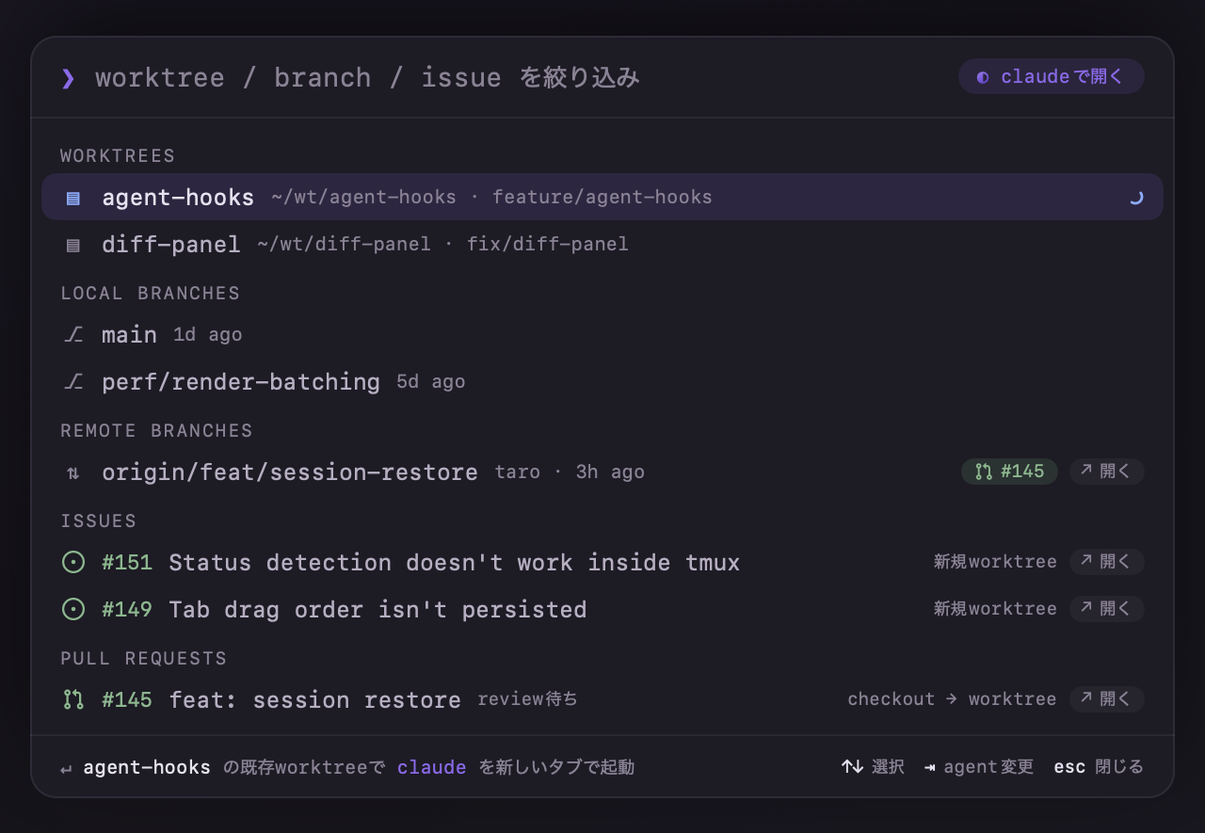
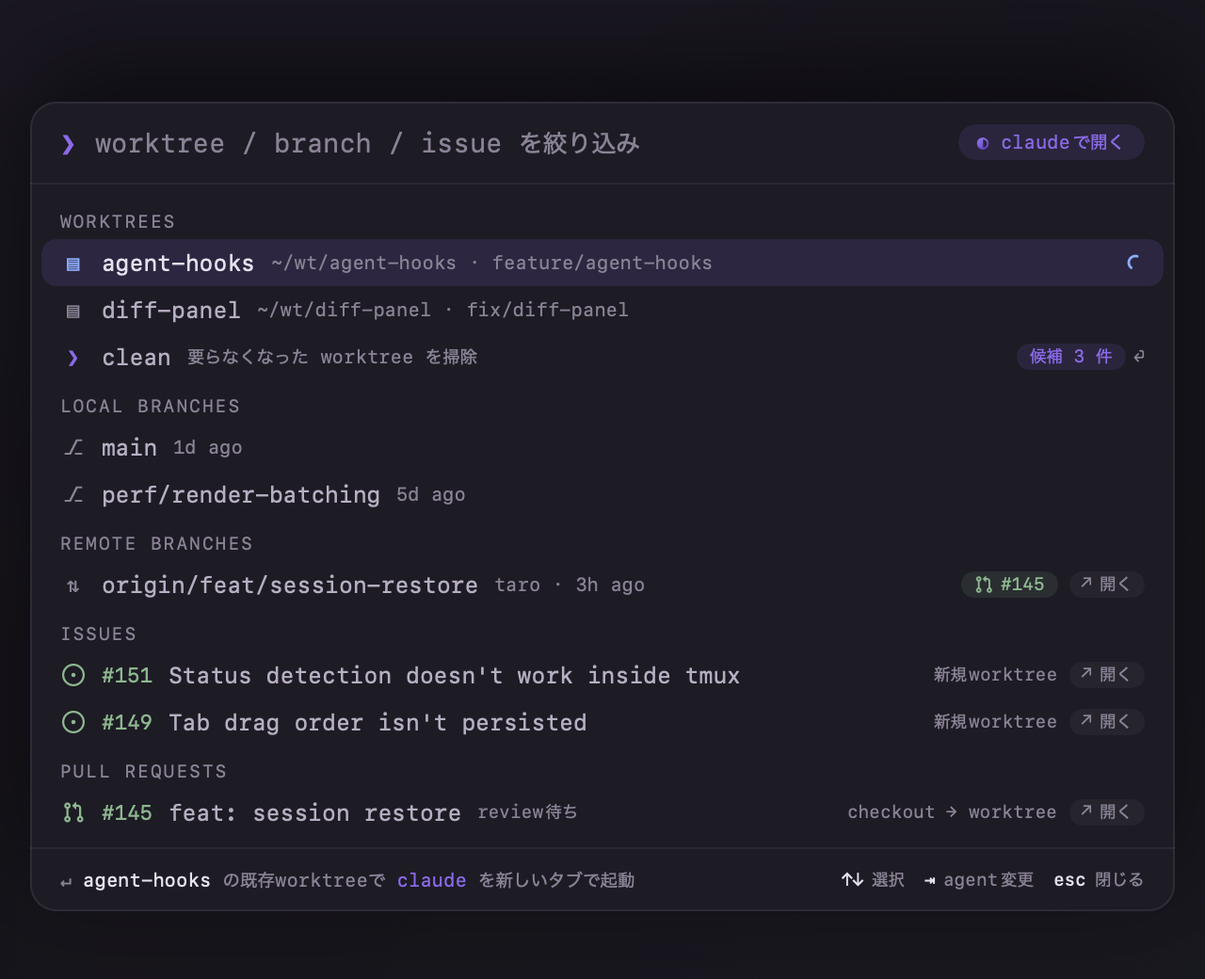
docs: READMEを現行機能・導入手順に合わせて刷新 (#176)
* docs: READMEを現行機能と導入手順に合わせて刷新

* chore: Orbe MCPの既定登録を外し接続案内を更新

diff --git a/README.md b/README.md
@@ -2,122 +2,173 @@
 
 <picture>
   <source media="(prefers-color-scheme: dark)" srcset="docs/assets/logo-dark.svg">
-  <img src="docs/assets/logo-light.svg" width="96" alt="Orbe">
+  <img src="docs/assets/logo-light.svg" width="80" alt="Orbe">
 </picture>
 
 # Orbe
 
-**AI コーディングエージェントのためのネイティブ macOS ターミナル**
+**AI コーディングエージェントとの並列開発を支える、macOS ネイティブターミナル**
 
-[![CI](https://github.com/nakashima-takeo/orbe/actions/workflows/ci.yml/badge.svg)](https://github.com/nakashima-takeo/orbe/actions/workflows/ci.yml)
-[![Release](https://img.shields.io/github/v/release/nakashima-takeo/orbe)](https://github.com/nakashima-takeo/orbe/releases/latest)
-[![macOS 14+](https://img.shields.io/badge/macOS-14.0%2B-000000?logo=apple)](#インストール)
-[![License: GPL-3.0](https://img.shields.io/badge/license-GPL--3.0-blue)](LICENSE)
+[![CI](https://github.com/nakashima-takeo/orbe/actions/workflows/ci.yml/badge.svg)](https://github.com/nakashima-takeo/orbe/actions/workflows/ci.yml) [![Release](https://img.shields.io/github/v/release/nakashima-takeo/orbe)](https://github.com/nakashima-takeo/orbe/releases/latest) [![macOS 14+](https://img.shields.io/badge/macOS-14.0%2B-000000?logo=apple)](#インストール) [![License: GPL-3.0](https://img.shields.io/badge/license-GPL--3.0-blue)](LICENSE)
 
-[インストール](#インストール) · [機能](#機能) · [ショートカット](#キーボードショートカット) · [ソースからビルド](#ソースからビルド)
+[インストール](#インストール) · [機能](#機能) · [ショートカット](#キーボードショートカット) · [CLI・MCP](#cli-と-mcp) · [開発ドキュメント](docs/README.md)
 
 </div>
 
----
+Orbe は、作業場所の準備、エージェントの起動、入力待ち・完了の確認をまとめて扱うターミナルです。Issue / PR / ブランチを選ぶと、Git worktree を用意し、エージェントを起動したタブを開けます。複数のプロジェクトを並行して進めるときも、各エージェントの状態を一覧できます。
 
-AI エージェントとの開発は、コードを書く時間より「段取り」に手を取られる——Issue を確認し、worktree を切り、`cd` して、エージェントを起動し、タブを行き来して入力待ちのエージェントを探す。
+ターミナルエンジンは [Ghostty](https://ghostty.org) の **libghostty**。Metal で描画し、アプリの UI は SwiftUI / AppKit で実装しています。
 
-**Orbe はその段取りを丸ごとターミナルに畳み込む。**
-
-<div align="center">
-  <img src="docs/assets/hero-dispatch.png" width="760" alt="Dispatch パレット。worktree・ローカル/リモートブランチ・GitHub Issue・PR が 1 枚に並び、選んで Enter するとエージェントが起動した状態のタブが開く">
-</div>
-
-- **ワンアクションで開発が始まる** — Issue / PR / ブランチを選んで Enter。worktree の作成からエージェント起動済みタブが開くまでが 1 アクション。
-- **並列でも迷子にならない** — 全タブ・全ワークスペースのエージェント状態（作業中 / 入力待ち / 完了）を常時表示。「どれが待ってるんだっけ」が無くなる。
-- **AI がターミナル自体を運転できる** — MCP ブリッジ経由で、エージェントがタブを開き、画面を読み、キーを送れる。
-
-土台は [Ghostty](https://ghostty.org) のターミナルエンジン **libghostty** を静的リンクした、Metal GPU 描画の本物のターミナル。その上のすべての UI を SwiftUI / AppKit で描く。Electron や Web 技術は使っていない。
+<!-- 画像の生成: ORBE_GALLERY=1 swift test --filter DesignGallerySnapshotTests/testRenderGallery
+     .preview/gallery/dispatch_design{,_light}.png → docs/assets/hero-dispatch{,-light}.png
+     .preview/gallery/attention_palette{,_light}.png → docs/assets/attention{,-light}.png -->
+<p align="center">
+  <picture>
+    <source media="(prefers-color-scheme: light)" srcset="docs/assets/hero-dispatch-light.png">
+    <img src="docs/assets/hero-dispatch.png" width="640" alt="Dispatch パレット。worktree、ローカル・リモートブランチ、GitHub Issue・PR の一覧と、worktree を掃除する clean 行が並ぶ">
+  </picture>
+  <br>
+  <em>Dispatch（⌘⇧X）で作業を選び、Enter で開始。画像は現行 UI にサンプルデータを表示したものです。</em>
+</p>
 
 ## インストール
 
-[**最新リリースの DMG をダウンロード**](https://github.com/nakashima-takeo/orbe/releases/latest)して、`Orbe.app` を Applications にドラッグするだけ。
+配布アプリの対象は **macOS 14.0 以降 / Apple Silicon** です。
 
-- macOS 14.0 以降。配布バイナリは Apple Silicon 用（Intel Mac は[ソースからビルド](#ソースからビルド)）
-- Developer ID 署名・Apple 公証済み
-- 以降の更新はアプリ内自動アップデート（Sparkle）が静かに追従する
+1. [最新リリース](https://github.com/nakashima-takeo/orbe/releases/latest)の Assets から `.dmg` をダウンロードします。
+2. DMG を開き、`Orbe.app` を「アプリケーション」へドラッグします。
+
+配布アプリは Developer ID 署名・Apple 公証済みです。更新はアプリ内で確認・ダウンロードし、再起動または終了時に適用します。自動更新の設定は `⌘,` から変更できます。
+
+### 連携ツールの準備
+
+エージェント CLI は別途インストールし、各 CLI でログインを済ませてください。Orbe はシェルの `PATH` から `claude` / `codex` / `agy` を検出します。エージェントを入れずに通常のシェルとして使うこともできます。
+
+| 使いたい機能 | 必要な準備 |
+|---|---|
+| エージェントの起動・状態表示 | `claude` / `codex` / `agy` のいずれかと、初回案内でのプラグイン導入 |
+| ブランチ・worktree の操作 | `git` コマンドが使えること |
+| GitHub Issue / PR の表示 | `origin` が GitHub.com のリポジトリと、[GitHub CLI](https://cli.github.com)（`gh auth login` で認証） |
+
+### 最初の作業を始める
+
+1. **Orbe を起動**し、表示言語とデフォルトエージェントを選びます。初回案内で、検出済み CLI に[状態追跡プラグイン](docs/spec/agent/plugin-package.md)を登録します。
+2. **`⌘N` でワークスペースを作成**します。既存フォルダを指定するか、リポジトリ URL から `git clone` できます。
+3. **`⌘⇧X` で Dispatch を開き**、ブランチ・worktree・Issue・PR を選んで **Enter**。必要な worktree が用意され、新しいタブでエージェントが起動します。**Tab** で別のエージェントや通常のシェルに切り替えられます。
+4. エージェントを複数動かしたら、**Command キーを単独で 2 回押す**（`⌘⌘`）と状態を一覧できます。行を選んで Enter を押すと、そのタブへ移動します。
+
+現在の作業ディレクトリでエージェントを起動するだけなら `⌘⇧C`、エージェントを選んで起動するなら `⌘⇧A` を使います。
 
 ## 機能
 
-### Dispatch — 作業開始を 1 アクションに
+### worktree の作成から片付けまで
 
-`⌘⇧X` で、worktree・ブランチ・GitHub Issue / PR が 1 枚のパレットに並ぶ。選んで Enter すると、worktree を（無ければ）隔離ディレクトリに自動作成し、そこでエージェント——または素のシェル——が起動した状態のタブが開く。「Issue を見て、worktree を切って、cd して、起動する」がすべて消える。
+Dispatch は既存の worktree を再利用し、必要なときだけ新しく作成します。GitHub の情報が取得できなくても、ローカルのブランチ・worktree は操作できます。
 
-### エージェントの並列運用
+作業後は同じパレットの **`clean` 行**から、不要になった worktree をまとめて削除できます。使用中・未コミット変更あり・未マージなどの状態を確認して対象を選びます。作成先は既定でリポジトリの隣の `<リポジトリ名>-worktrees/`。`⌘,` の設定から変更できます。詳しくは [Dispatch の仕様](docs/spec/palette/dispatch.md)を参照してください。
 
-<img src="docs/assets/agent-status.png" width="760" alt="画面上部の chrome。タブごとに作業中・入力待ち・完了のグリフが付き、右上に全ワークスペース横断の集計が出る">
+### エージェントの状態を見渡す
 
-PATH 上のエージェント CLI（claude / codex / agy）を自動検出。`⌘⇧C` で現在の cwd を引き継いだ新タブにデフォルトエージェントが一発起動する。各エージェントの状態はタブのインジケータと画面上部のストリップに**全ワークスペース横断**で集計され、入力待ちや完了を見逃さない。アプリを再起動しても、保存されたセッションから会話ごと自動 resume。
+タブと画面上部に作業中・入力待ち・完了などの状態を表示します。**Attention**（`⌘⌘`）では、作業中・入力待ち・完了のエージェントをワークスペース横断で一覧し、質問や完了メッセージを確認して該当タブへ移動できます。
 
-### ワークスペース
+<p align="center">
+  <picture>
+    <source media="(prefers-color-scheme: light)" srcset="docs/assets/attention-light.png">
+    <img src="docs/assets/attention.png" width="640" alt="Attention パレット。複数ワークスペースのエージェントについて、作業中・入力待ち・完了の状態、質問や完了メッセージ、経過時間を表示する">
+  </picture>
+</p>
 
-<img src="docs/assets/workspace.png" width="640" alt="ワークスペース切替パレット。各ワークスペースの名前・エージェント状態の集計・パスが並び、末尾に新規作成の導線がある">
+Orbe が背面にあるときは、macOS のメニューバーから入力待ち・完了を確認できます。見ていないタブでの状態変化は通知音でも知らせます。音の種類・音量・オン／オフはワークスペースごとに設定でき、手持ちの音源も使えます。
 
-案件ごとにタブ群・作業ディレクトリ・設定を丸ごと分離した名前付きワークスペース。`⌘⇧S` で瞬時に切替、フォルダ選択や `git clone` からの新規作成も `⌘N` から。フォント・テーマ・デフォルトエージェントなど、**どの設定もワークスペース単位で上書きできる**（`⌘,`）。
+状態表示は各 CLI の hook に依存します。`agy` は作業中・完了に対応し、入力待ちは取得できません。詳しくは [Attention](docs/spec/palette/attention.md)・[メニューバー](docs/spec/chrome/menubar.md)・[通知音](docs/spec/agent/sound.md)を参照してください。
 
-### IDE 級のコマンド補完
+### プロジェクトごとに作業場所を分ける
 
-<img src="docs/assets/completion.png" width="500" alt="コマンド補完のドロップダウン。入力に一致した部分が強調され、隣のカードに選択中の候補の説明が出る">
+ワークスペースは、名前・作業ディレクトリ・タブ・設定をまとめる単位です。`⌘⇧S` で切り替えられ、同じ Git worktree のタブは隣り合うグループにまとまり、識別色が付きます。1 タブにつき 1 つの端末を持ち、ドラッグで並べ替え、`⌘R` で名前を変更できます。
 
-入力中のコマンドラインに、カーソル追従のドロップダウンで候補と説明を表示（zsh）。[fig](https://github.com/withfig/autocomplete) の補完 spec を解釈し、`git checkout <Tab>` で実ブランチ名が出るような動的候補にも対応。使うほど頻度を学習して並び順が育ち、日本語 IME の変換中は自動で引っ込む。
+`⌘,` でフォント・テーマ・背景の透過・デフォルトエージェントなどを設定できます。これらはアプリ全体の設定を継承しつつ、ワークスペース単位で上書きできます。表示言語（日英）と自動更新はアプリ全体の設定です。
 
-### 自動化 — `orb` CLI・制御 API・MCP
+### 再起動後や、閉じたタブから作業を再開する
 
-同梱の `orb` コマンドで、Orbe 自身の設定・ワークスペース・タブをスクリプトから操作できる。裏側は Unix socket 上の JSON-RPC 2.0 制御チャネルで、MCP ブリッジ（`orbe-mcp`）を立てれば **AI がターミナル自体を運転できる**——テキスト注入・画面テキスト取得・状態イベントの購読まで。
+ワークスペース・タブ・作業ディレクトリは保存され、次回起動時に復元されます。エージェントのセッション ID が記録されていれば、タブを起動するときに各 CLI の再開コマンドで会話を引き継ぎます。通常のシェルは保存されたディレクトリで新しく起動します。
 
-| 実行体 | 役割 |
-|---|---|
-| `Orbe.app` | ターミナル本体（libghostty を静的リンク） |
-| `orb` | `config` / `ws` / `tab` / `agent` / `wait` サブコマンド（同梱） |
-| `orbe-report` | エージェント CLI の hook から状態を報告（同梱） |
-| `orbe-mcp` | MCP(stdio) を制御チャネルへ転送するブリッジ（非同梱・`.mcp.json` から起動） |
+**`⌘⇧T`** では、現在のワークスペースで閉じたエージェントを一覧し、1 件ずつ復元できます。通常のシェルタブや、セッション ID を取得できなかったエージェントはこの一覧の対象外です。複数セッションの一括復元には `orb session` を使えます。詳しくは [復元の仕様](docs/spec/platform/persistence.md)と[閉じたエージェント](docs/spec/palette/closed-agents.md)を参照してください。
 
-### 細部まで
+### ターミナルの基本操作
 
-- スクロールバック検索（`⌘F`）・タブの D&D 並び替え・その場リネーム（`⌘R`）
-- JetBrains Mono Nerd Font 同梱——設定なしでアイコンが描画され、CJK 字形はヒラギノに固定
-- 背景の透過・ブラー、WCAG AA コントラストをテストで機械保証した Dark / Light テーマ
-- 日英 UI を再起動なしで即時切替
-- アプリ内自動アップデート——ダウンロードは裏で済み、再起動または終了時に適用
+zsh では、コマンド・オプション・パスの補完候補を説明付きで表示します。Git ブランチなどの動的候補、利用頻度に応じた並べ替え、日本語 IME との共存に対応しています。
+
+スクロールバック検索（`⌘F`）、フォントサイズ変更、Dark / Light テーマを備え、JetBrains Mono Nerd Font を同梱しています。操作一覧は **`⌘H` のヘルプ**で確認できます。
 
 ## キーボードショートカット
 
-覚えるのは**パレットの開き方だけ**。どのパレットも操作は共通——打鍵で絞り込み、`↑↓` で選び、Enter で決定、`←` で戻る。
+`⌘` は Command、`⇧` は Shift です。パレットの基本操作は `↑↓` で選択、Enter で決定、Esc で戻る・閉じる。検索やサブメニューなど、その画面で使える操作はフッターに表示されます。
 
 | キー | 動作 |
 |---|---|
-| `⌘⇧X` | Dispatch（Issue / PR / ブランチ / worktree から作業開始） |
-| `⌘⇧C` / `⌘⇧A` | デフォルトエージェント起動 / エージェントを選んで起動 |
-| `⌘⇧S` | ワークスペース切替 |
-| `⌘,` | 設定パレット |
-| `⌘T` / `⌘W` | 新タブ / タブを閉じる |
-| `⌘F` | スクロールバック検索 |
+| `⌘⇧X` | Dispatch を開く |
+| `⌘⇧C` / `⌘⇧A` | デフォルトエージェントを起動 / エージェントを選んで起動 |
+| `⌘⌘` | Attention を開く（Orbe が前面のとき、Command 単独を 2 回） |
+| `⌘N` / `⌘⇧S` | ワークスペースを作成 / 切り替え |
+| `⌘T` / `⌘W` | 新しいシェルタブ / タブを閉じる |
+| `⌘⇧T` | 閉じたエージェントの一覧から復元 |
+| `⌘⇧←` / `⌘⇧→` | 前のタブ / 次のタブ |
+| `⌘R` | タブの名前を変更 |
+| `⌘⇧E` | 現在の作業ディレクトリを GUI エディタで開く |
+| `⌘F` | スクロールバックを検索 |
+| `⌘,` | 設定を開く |
+| `⌘H` | ヘルプを開く・閉じる（Orbe ではこのキーをヘルプに割り当て） |
+
+## CLI と MCP
+
+同梱の **`orb`** で、設定・ワークスペース・タブ・エージェント・セッション履歴を操作できます。Orbe 内のシェルタブでは `PATH` に自動で追加されます。
+
+```bash
+orb ws list                     # ワークスペース一覧
+orb tab list --json              # タブとエージェント状態を JSON で取得
+orb agent spawn                 # デフォルトエージェントを新しいタブで起動
+orb session closed              # 閉じたままのエージェントセッションを確認
+orb --help                      # コマンド一覧
+```
+
+`orb agent prompt` で別タブのエージェントへ指示して応答を待ち、`orb tab text` で端末の表示内容を取得できます。引数・終了コードは [CLI リファレンス](docs/spec/control/cli.md)を参照してください。
+
+MCP クライアントからも **`orbe-mcp`** を介してタブの起動・テキスト取得・入力・エージェントへの指示を行えます。ブリッジは配布アプリには同梱されず、リポジトリの [`scripts/orbe-mcp.sh`](scripts/orbe-mcp.sh) がソースからビルドして起動します。
+
+利用する場合は、このスクリプトの絶対パスを MCP クライアントに stdio サーバーの起動コマンドとして登録してください。既定の接続先は **Orbe Dev**。配布版へ接続する場合は、MCP クライアントから `ORBE_SOCK` に配布版の `control.sock` の絶対パスを渡します。接続先の解決規則と公開ツールは [制御 API・MCP の仕様](docs/spec/control/api.md)にあります。
 
 ## ソースからビルド
 
-フル Xcode と Zig 0.15.2 が必要。詳細は **[docs/guides/build.md](docs/guides/build.md)**。
+**フル Xcode（Xcode 26 系）・Metal Toolchain・Zig 0.15.2** を用意してください。Command Line Tools だけではビルドできません。ツールの導入・環境確認は[ビルドガイド](docs/guides/build.md)にまとめています。
 
 ```bash
-git submodule update --init --recursive
+git clone --recurse-submodules https://github.com/nakashima-takeo/orbe.git
+cd orbe
 ./scripts/build-app.sh
 open build/Orbe.app
 ```
 
-現状仕様は [docs/spec/](docs/spec/) にある。
+既に clone 済みのリポジトリでは、`git submodule update --init --recursive` を実行してからビルドします。Git worktree で開発する場合の submodule の扱いは[ビルドガイド](docs/guides/build.md)を参照してください。
+
+ビルドスクリプトは libghostty のコンパイルとアプリのバンドル生成を行います。既定の成果物は **Orbe Dev** です。配布版 Orbe と共存し、設定・タブの保存先も分かれます。開発には SwiftPM を使い、Xcode プロジェクトファイルはありません。
+
+テストは libghostty をビルドした後、次のコマンドで実行できます。lint・format の手順も[ビルドガイド](docs/guides/build.md)にあります。
+
+```bash
+swift build --build-tests
+swift test --skip-build
+```
+
+全体構成と機能ごとの仕様は **[開発ドキュメント](docs/README.md)**、テストの考え方は[テストアーキテクチャ](docs/testing/test-architecture.md)を参照してください。不具合・機能要望は [GitHub Issues](https://github.com/nakashima-takeo/orbe/issues)で受け付けています。
 
 ## 既知の制限
 
-- **危険ペーストの確認ダイアログが出ない。** 上流 Ghostty は改行を含むペースト等で確認を求めるが、Orbe は現状これを無条件で許可する。Web ページからコピーしたコマンドがそのまま実行されうるため、貼り付ける内容は自分で確認すること（確認 UI は v1.1 で対応予定）。
-- コマンド補完は zsh のみ（bash / fish、tmux / ssh 先では無効）。
-- 配布バイナリは Apple Silicon 専用。Intel Mac はソースビルドで動く。
+- **改行を含む貼り付けなどに確認ダイアログは出ません。** 内容によっては貼り付けたコマンドがそのまま実行されるため、貼り付け前に確認してください。
+- **Orbe のコマンド補完はローカルの zsh が対象**です。bash / fish、tmux 内、SSH 先は対象外です。
+- **会話の再開には各 CLI 側にセッションが残っている必要があります。** 実行中プロセスやシェルの出力履歴を保存・復元する機能はありません。
 
 ## ライセンス
 
-Orbe は [GPL-3.0-or-later](LICENSE)。Copyright (C) 2026 Takeo Nakashima
+[GPL-3.0-or-later](LICENSE)。Copyright (C) 2026 Takeo Nakashima。
 
-同梱する第三者ソフトウェア（libghostty(MIT)、JetBrains Mono / JuliaMono(OFL-1.1)、swift-markdown(Apache-2.0)、補完エンジン(MIT) 等）の帰属は [NOTICE](NOTICE)、ライセンス全文は [licenses/](licenses/) に置く。`vendor/` 配下の第三者由来ファイルは上流のライセンスを維持する（Orbe が書いたファイルは他と同じく GPL-3.0-or-later）。
+第三者ソフトウェアの帰属は [NOTICE](NOTICE)、ライセンス全文は [licenses/](licenses/) を参照してください。`vendor/` 内の第三者由来ファイルは、それぞれのライセンスに従います。

diff --git a/docs/spec/control/api.md b/docs/spec/control/api.md
@@ -1,7 +1,7 @@
 ---
 title: 制御 API（外部 → Orbe）
 description: Unix socket 上の JSON-RPC でタブ/workspace/エージェントを操作する out-of-band 制御チャネルと、イベント履歴（seq）・待機・MCP ブリッジ・ツール群・mount 境界
-updated: 2026-09-07
+updated: 2026-09-08
 ---
 
 # 制御 API（外部 → Orbe）
@@ -90,10 +90,12 @@ JSON-RPC メソッド = MCP ツール名の 1:1。ただし `report_agent`・`co
 
 ## MCP ブリッジ
 
-`orbe-mcp` 実行ターゲット（GhosttyKit/AppKit 非依存）。MCP stdio を喋りツール定義を保持し、tools/call を control.sock へ転送する薄い層——ツールの反復に Orbe 本体の再ビルド/再起動が要らない。応答はそのまま本文に出し、control のエラーは code を落として `isError` の文言に畳む（ツール説明はコード番号でなく文言で案内する）。ツール説明が導線を持つ——エージェントに問うなら `prompt_agent`、生の入力は `send_text`＋`send_key`、特殊な待ちだけ `wait_for_event`。`.mcp.json` の `Orbe` サーバは起動スクリプトが毎回 `swift build` を通してから exec する（stale バイナリが別チャネルの socket を掴まないため・[channel](../platform/channel.md)）。接続先 control.sock は app と同じ規則で `ORBE_STATE_DIR` を honor するため、隔離インスタンスと bridge を同じ `ORBE_STATE_DIR` で起こせば、その隔離インスタンスを MCP で駆動できる。
+`orbe-mcp` 実行ターゲット（GhosttyKit/AppKit 非依存）。MCP stdio を喋りツール定義を保持し、tools/call を control.sock へ転送する薄い層——ツールの反復に Orbe 本体の再ビルド/再起動が要らない。応答はそのまま本文に出し、control のエラーは code を落として `isError` の文言に畳む（ツール説明はコード番号でなく文言で案内する）。ツール説明が導線を持つ——エージェントに問うなら `prompt_agent`、生の入力は `send_text`＋`send_key`、特殊な待ちだけ `wait_for_event`。
+
+利用する MCP クライアントへ、[`scripts/orbe-mcp.sh`](../../../scripts/orbe-mcp.sh) の絶対パスを stdio サーバーの起動コマンドとして登録する。スクリプトは毎回 `swift build` を通してから exec する（stale バイナリが別チャネルの socket を掴まないため・[channel](../platform/channel.md)）。接続先 control.sock は app と同じ規則で `ORBE_STATE_DIR` を honor するため、隔離インスタンスと bridge を同じ `ORBE_STATE_DIR` で起こせば、その隔離インスタンスを MCP で駆動できる。
 
 ## 開発検証
 
 制御 API の導通は `swift test` の L4（プロセス境界）が担う。テストプロセス内に実 `WindowController` を target とした `ControlServer` を立て、外部プロセスの `orbe-mcp` / `orb` / `orbe-report` から駆動して assert する。「タブで実際に実行された」ことは、コマンド行の中で 2 つのリテラルに割った目印（`echo L4D""ONE_<id>`）を送り、連結された `L4DONE_<id>` が `get_tab_text` に現れるまでポーリングして見る——連結形はシェルが引用符除去を評価した出力にしか現れないので、プロンプトの描画挙動に依らない。`.app` の起動経路と `AppDelegate` の配線はその外側で、隔離した使い捨てインスタンスを起こす `sandbox-run`（`.claude/skills/`）が同じ形の煙探知を通す。再起動の orchestration も制御 API の外側に置く——socket はアプリと心中するため、自己再起動は循環になる。
 
-CLI は `orbe-mcp`（MCP ブリッジ）・`orbe-report`（状態報告）・`orb`（ユーザー/AI 向け操作 CLI・[cli](cli.md)）。`.app` に同梱されるのは `orbe-report` と `orb` で、`orbe-mcp` は同梱せず `.mcp.json` の起動スクリプトがビルドして exec する。
+CLI は `orbe-mcp`（MCP ブリッジ）・`orbe-report`（状態報告）・`orb`（ユーザー/AI 向け操作 CLI・[cli](cli.md)）。`.app` に同梱されるのは `orbe-report` と `orb` で、`orbe-mcp` は同梱せず `scripts/orbe-mcp.sh` がビルドして exec する。

diff --git a/docs/architecture.md b/docs/architecture.md
@@ -1,7 +1,7 @@
 ---
 title: 全体構成
 description: 実行体と制御チャネル・state dir・Sources/ モジュール構成の一望図
-updated: 2026-08-14
+updated: 2026-09-08
 ---
 
 # 全体構成
@@ -18,7 +18,7 @@ flowchart LR
     end
     ORB["orb<br>（.app 同梱・全タブ PATH）"] -->|JSON-RPC| CS
     REP["orbe-report<br>（.app 同梱・agent hook が exec）"] -->|JSON-RPC| CS
-    MCP["orbe-mcp<br>（非同梱・.mcp.json が起動）"] -->|JSON-RPC 転送| CS
+    MCP["orbe-mcp<br>（非同梱・MCP クライアントに手動登録）"] -->|JSON-RPC 転送| CS
     AI["MCP クライアント<br>（エージェント）"] -->|stdio| MCP
     ZSH["zsh zle フック<br>（補完）"] -->|JSON-RPC| CS
     app --- STATE[("state dir<br>workspaces.json / settings.json<br>app-state.json / gui.conf")]
